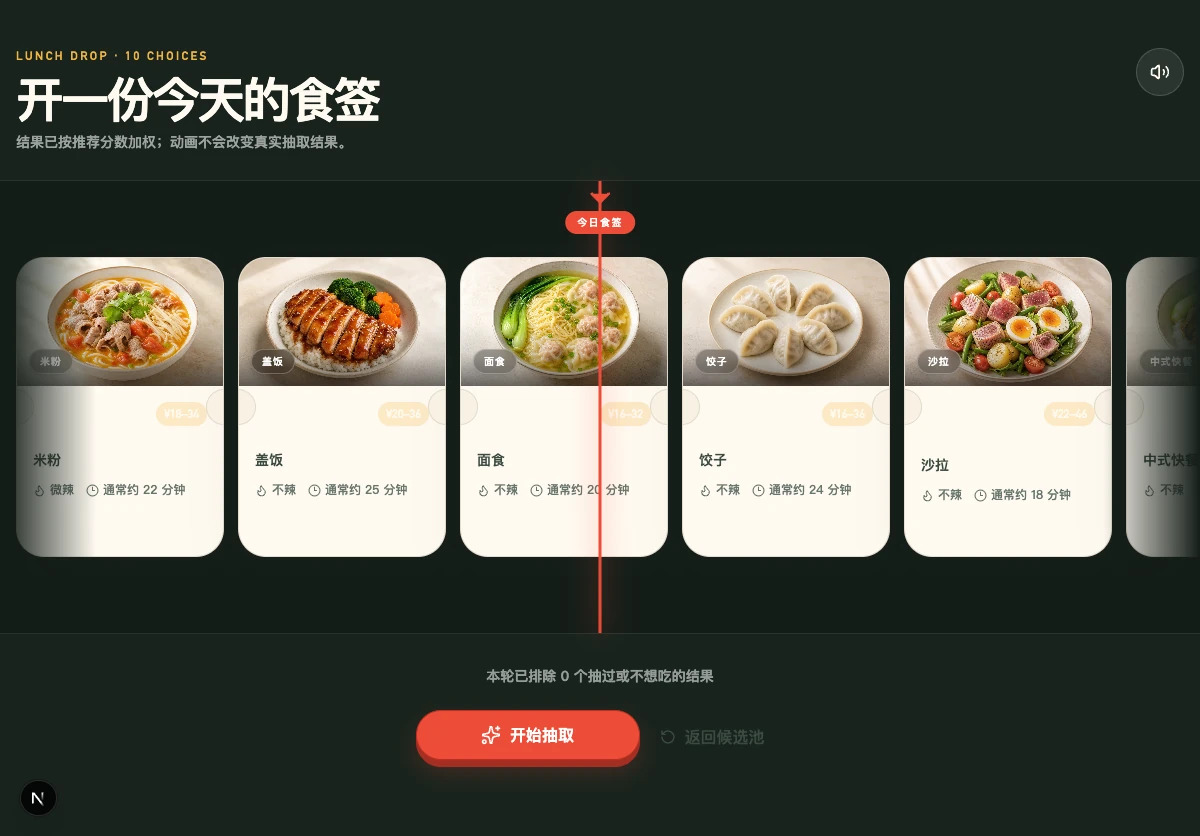
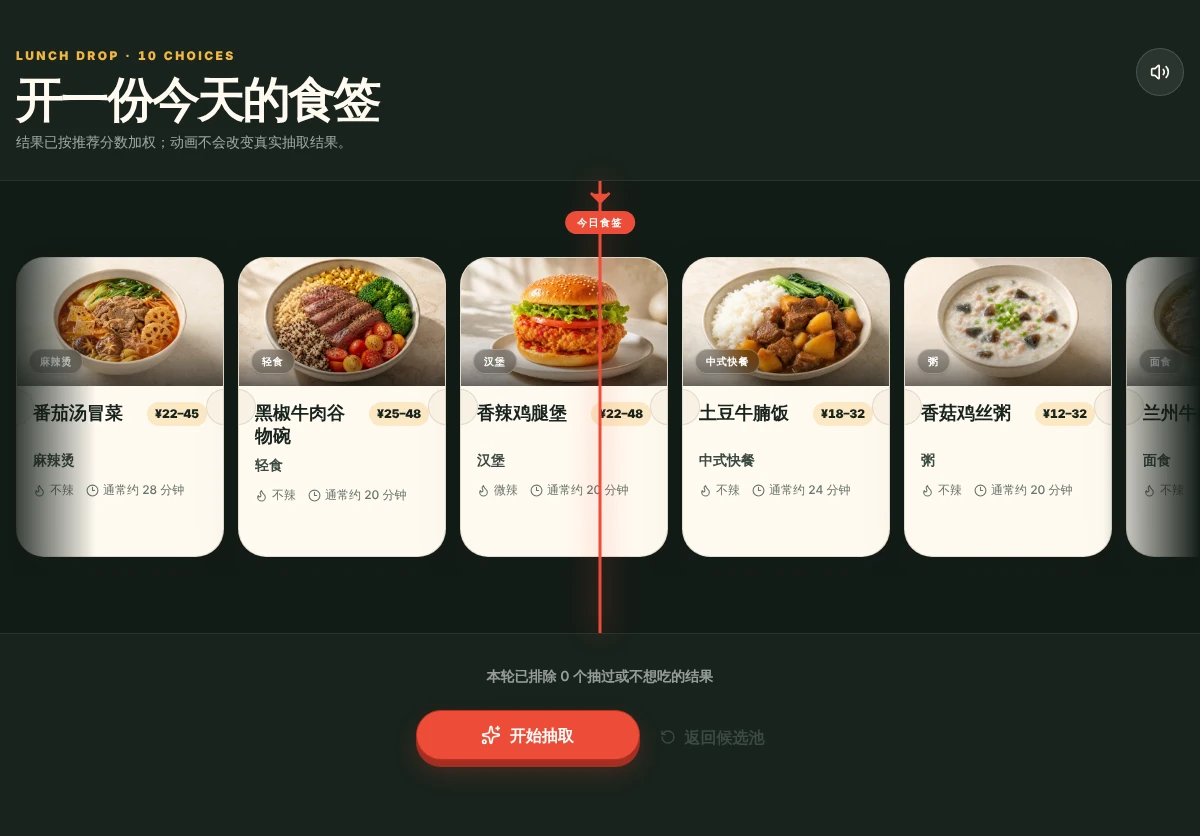
Recapture the Chinese draw step with readable dish names
source/03-roulette.webp was taken before the text-color fix, so the draw cards showed no dish names or prices. It is recaptured from cfc7d70 with the same five preferences, and only panel 2 of the Chinese walkthrough images is replaced, using the build script's crop and box.

diff --git a/public/screenshots/README.md b/public/screenshots/README.md
@@ -32,4 +32,4 @@ The English layout is longer than the Chinese one, so `source/en/crops.json` rec
 python scripts/build_walkthrough.py --lang en
 ```
 
-中文截图来自 `86d9cf1`。当时抽取页的浅色文字被白色卡片继承，卡片上的菜名和价格看不清（中文组合图第 2 步可见）；`27b2f85` 已修复，英文截图显示的是修复后的界面。如需更新中文截图，按上面的步骤重新截取即可。
+中文截图来自 `86d9cf1`。当时抽取页的浅色文字被白色卡片继承，卡片上的菜名和价格看不清；`27b2f85` 已修复。`source/03-roulette.webp` 已于 2026-11-24 用修复后的版本（`cfc7d70`）按同样的五项偏好重新截取，并只替换了中文组合图的第 2 步，其他几步仍是原截图（不受这个问题影响）。详见 `provenance.json` 的 `chinese_outputs`。
